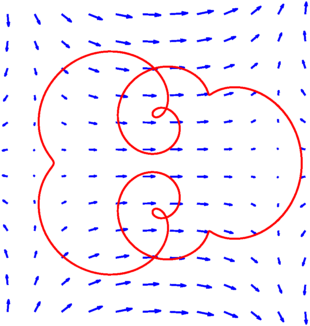
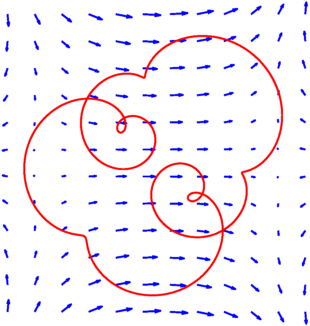
Updating an Example.

diff --git a/examples/veccalc/img/CheckingVectorCalculus.html b/examples/veccalc/img/CheckingVectorCalculus.html
@@ -23,7 +23,7 @@ Vector addition, denoted $F + G$, yields another chebfun2v and is computed by ad
 <pre class="mcode-input">F = chebfun2v(@(x,y)cos(x.*y),@(x,y)sin(x.*y));
 G = chebfun2v(@(x,y)x+y,@(x,y)1+x+y);
 abs((2*norm(F)^2 + 2*norm(G)^2) - (norm(F+G)^2 + norm(F-G)^2))</pre><pre class="mcode-output">ans =
-     2.131628207280301e-14
+     1.776356839400250e-14
 </pre>
 
 ## The gradient theorem
@@ -38,7 +38,7 @@ abs(v-ends)                                  % gradient theorem</pre><pre class=
      2.220446049250313e-16
 </pre>Another consequence of the gradient theorem is that the integral of $\mathrm{grad}(f)$ over any closed curve is zero. For example, here is an exotic closed curve, which we plot superimposed on the vector field $\mathrm{grad}(f)$.
 
-<pre class="mcode-input">circ = @(p) chebfun(@(x) exp(2i*p*pi*x));
+<pre class="mcode-input">circ = @(p) chebfun(@(x) exp(2i*p*pi*x + 0.8i));
 C = (circ(1) + circ(3)/1.5 + circ(8)/3.5) / 2;
 figure('position', [0 0 600 400])
 quiver(F,0.5,'numpts',12), hold on
@@ -47,7 +47,7 @@ plot(C, 'r'), axis equal off</pre><img src="img/CheckingVectorCalculus_01.png" c
 Its integral should be zero.
 
 <pre class="mcode-input">v = integral(F,C)</pre><pre class="mcode-output">v =
-     0
+    -1.353328241103713e-15
 </pre>
 
 ## Curl of the gradient
@@ -55,7 +55,7 @@ Its integral should be zero.
 If the chebfun2v $F$ describes a vector velocity field of fluid flow, then $\mathrm{curl}(F)$ is a scalar function equal to twice the angular speed of a particle in the flow at each point. A particle moving in a gradient field has zero angular speed and hence, $\mathrm{curl}(\mathrm{grad}(f))=0$, a well known identity that can also be checked numerically. For example,
 
 <pre class="mcode-input">norm(curl(grad(f)))</pre><pre class="mcode-output">ans =
-     1.841714593426618e-15
+     1.820643535541389e-15
 </pre>
 
 ## More information

diff --git a/examples/veccalc/CheckingVectorCalculus.html b/examples/veccalc/CheckingVectorCalculus.html
@@ -72,7 +72,7 @@ G = chebfun2v(@(x,y)x+y,@(x,y)1+x+y);
 abs((2*norm(F)^2 + 2*norm(G)^2) - (norm(F+G)^2 + norm(F-G)^2))</pre>
 
 <pre class="mcode-output">ans =
-     2.131628207280301e-14
+     1.776356839400250e-14
 </pre>
 
 <h3 id="the-gradient-theorem">The gradient theorem</h3>
@@ -88,7 +88,7 @@ abs(v-ends)                                  % gradient theorem</pre>
 </pre>
 
 <p>Another consequence of the gradient theorem is that the integral of $\mathrm{grad}(f)$ over any closed curve is zero. For example, here is an exotic closed curve, which we plot superimposed on the vector field $\mathrm{grad}(f)$.</p>
-<pre class="mcode-input">circ = @(p) chebfun(@(x) exp(2i*p*pi*x));
+<pre class="mcode-input">circ = @(p) chebfun(@(x) exp(2i*p*pi*x + 0.8i));
 C = (circ(1) + circ(3)/1.5 + circ(8)/3.5) / 2;
 figure('position', [0 0 600 400])
 quiver(F,0.5,'numpts',12), hold on
@@ -99,7 +99,7 @@ plot(C, 'r'), axis equal off</pre>
 <pre class="mcode-input">v = integral(F,C)</pre>
 
 <pre class="mcode-output">v =
-     0
+    -1.353328241103713e-15
 </pre>
 
 <h3 id="curl-of-the-gradient">Curl of the gradient</h3>
@@ -107,7 +107,7 @@ plot(C, 'r'), axis equal off</pre>
 <pre class="mcode-input">norm(curl(grad(f)))</pre>
 
 <pre class="mcode-output">ans =
-     1.841714593426618e-15
+     1.820643535541389e-15
 </pre>
 
 <h3 id="more-information">More information</h3>

diff --git a/examples/veccalc/CheckingVectorCalculus.m b/examples/veccalc/CheckingVectorCalculus.m
@@ -49,7 +49,7 @@ abs(v-ends)                                  % gradient theorem
 % an exotic closed curve, which we plot superimposed on the vector field
 % $\mathrm{grad}(f)$.
 
-circ = @(p) chebfun(@(x) exp(2i*p*pi*x));
+circ = @(p) chebfun(@(x) exp(2i*p*pi*x + 0.8i));
 C = (circ(1) + circ(3)/1.5 + circ(8)/3.5) / 2;
 figure('position', [0 0 600 400])
 quiver(F,0.5,'numpts',12), hold on
